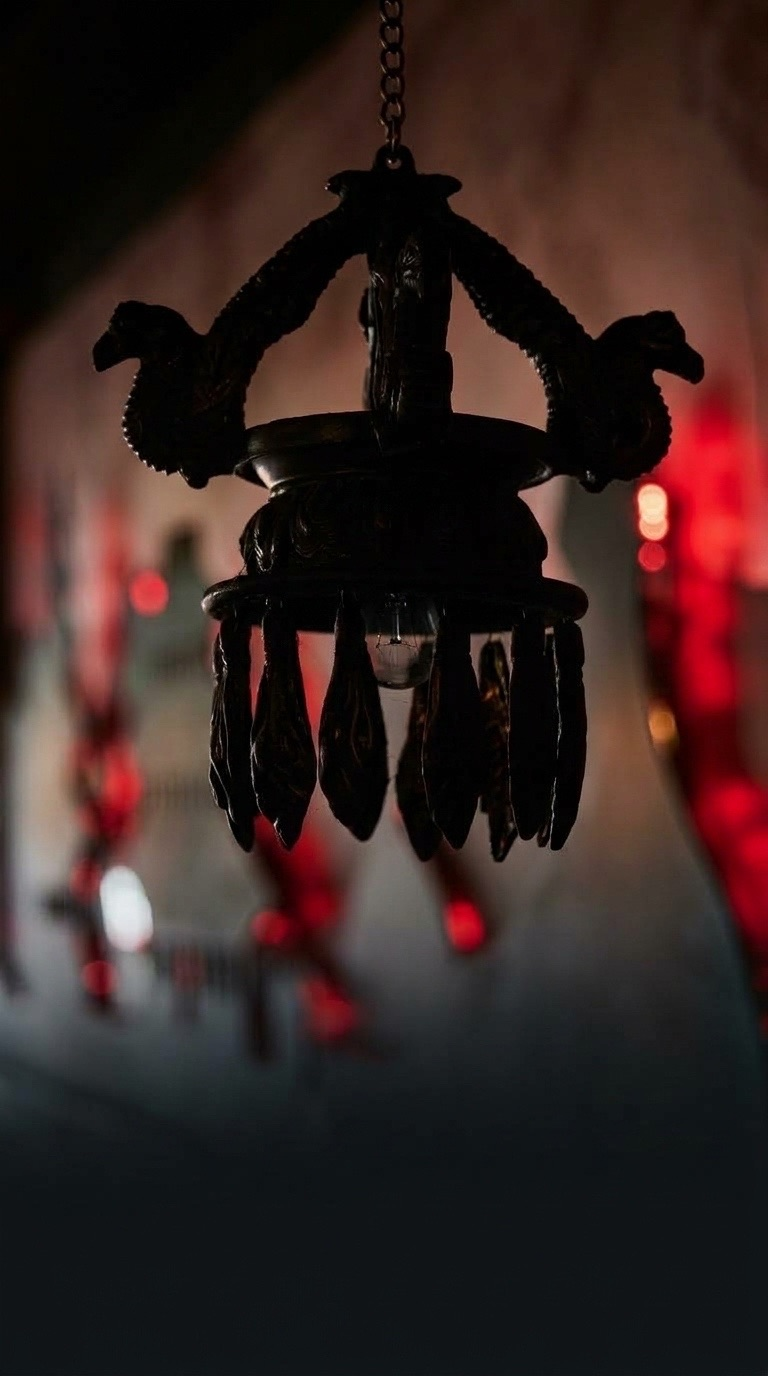
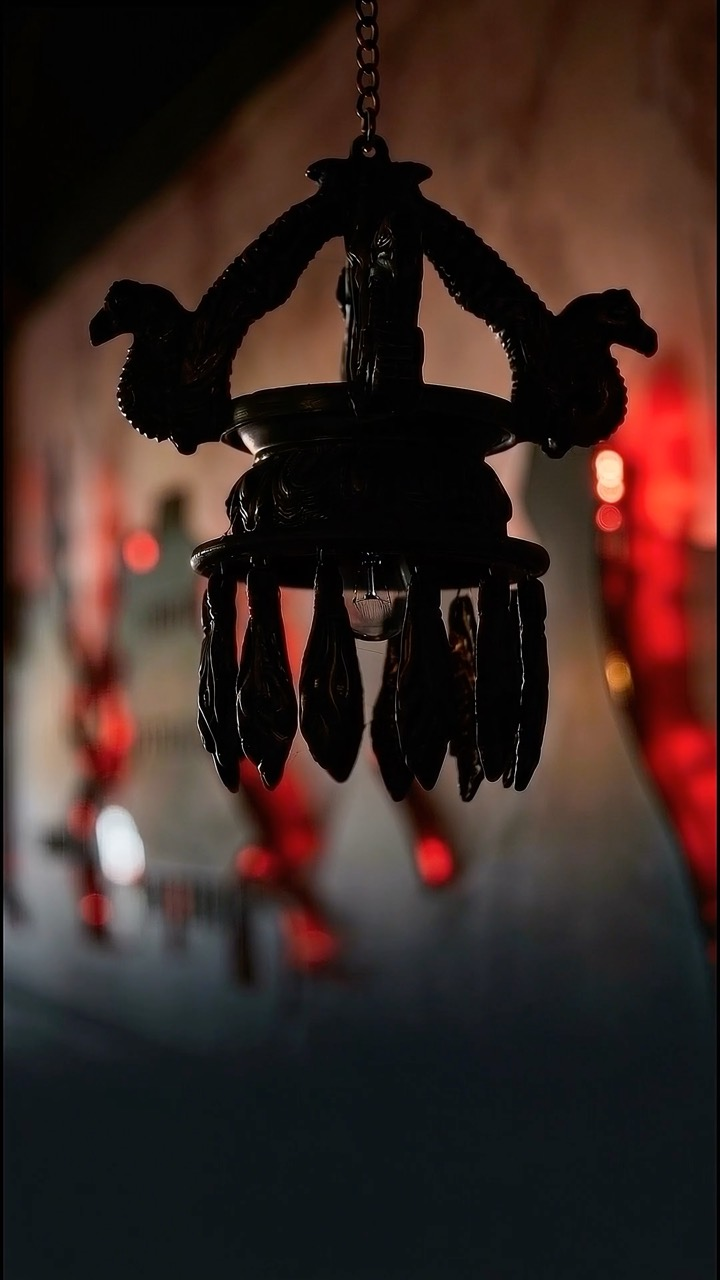
Lab bara: real lamp clip, 6 s wait, no dead scroll after auto-on (#28)
- The lamp now plays the real clip (bulb snaps on, flickers, holds)
  as 19 frames instead of fading between two stills.
- Comes on by itself after 6 s instead of 2.2 s, so a visitor who
  reads first still gets to scroll it on.
- When it comes on by itself, the hold is dropped so the next scroll
  moves the page instead of scrolling past an unchanging lamp.
- Link preview uses the fully lit frame.

diff --git a/lab/bara/index.html b/lab/bara/index.html
@@ -6,7 +6,7 @@
 <link rel="icon" type="image/svg+xml" href="/favicon.svg">
 <meta property="og:title" content="Bara Nepalese Restaurant &amp; Bar (redesign concept)">
 <meta property="og:description" content="Redesign concept for Bara Nepalese Restaurant &amp; Bar in Euless, TX. Not the official site.">
-<meta property="og:image" content="https://milankhanal.com/lab/bara/frames/lamp/f001.jpg">
+<meta property="og:image" content="https://milankhanal.com/lab/bara/frames/lamp/f018.jpg">
 <meta property="og:url" content="https://milankhanal.com/lab/bara">
 <meta name="robots" content="noindex, nofollow">
 <title>Bara Nepalese Restaurant & Bar | Euless, TX (redesign concept)</title>
@@ -337,7 +337,7 @@ a{color:inherit;text-decoration:none}
   <div class="lamp-track">
   <section class="hero lamp" aria-label="Bara">
     <div class="lamp-stage">
-      <img class="lamp-img" src="/lab/bara/frames/lamp/f000.jpg" alt="Bara's carved brass lamp with its ring of leaf-shaped pendants" width="768" height="1376">
+      <img class="lamp-img" src="/lab/bara/frames/lamp/f000.jpg" alt="Bara's carved brass lamp with its ring of leaf-shaped pendants" width="720" height="1280">
       <canvas class="lamp-cv" aria-hidden="true"></canvas>
     </div>
     <div class="hero-copy">
@@ -527,14 +527,14 @@ function isOpenNow(){try{var h=+new Intl.DateTimeFormat('en-US',{hour:'numeric',
 })();
 // The lamp. Frames cut from a clip made from Bara's own lamp photo: bulb off to on (the
 // filament warms, flickers, then full light). The first scroll warms it on while the hero holds
-// still; if the visitor lingers at the top without scrolling, it comes on by itself. The
+// still; if the visitor lingers at the top for 6 s without scrolling, it comes on by itself. The
 // headline says Open till 2 AM or Opens at 4 PM from the Dallas clock. Frames are decoded
 // before use and the canvas repaints only when the picture changes.
 (function(){
   var track=document.querySelector('.lamp-track'),stage=document.querySelector('.lamp-stage'),cv=document.querySelector('.lamp-cv'),hero=document.querySelector('.lamp');
   var title=document.getElementById('lamp-title');
   if(!track||!cv) return;
-  var N=2,FPS=1.4,ON=1; // ON: the frame where the light is fully up
+  var N=19,FPS=12,ON=18; // ON: the frame where the light is fully up
   var open=isOpenNow();
   title.innerHTML=open?'<span class="l1">Open till</span><span class="l2">2&thinsp;AM</span>':'<span class="l1">Opens at</span><span class="l2">4&thinsp;PM</span>';
   var frames=new Array(N),ctx=cv.getContext('2d'),dpr=1,w=0,h=0,dirty=true,shown=-1,pos=0,auto=0,autoT0=0,autoRun=false,scrolled=false;
@@ -569,8 +569,8 @@ function isOpenNow(){try{var h=+new Intl.DateTimeFormat('en-US',{hour:'numeric',
     requestAnimationFrame(tick)}
   ready.then(function(){
     requestAnimationFrame(tick);
-    // lingering at the top: the lamp comes on by itself
-    setTimeout(function(){if(!scrolled&&progress()<.02){autoRun=true;autoT0=performance.now()}},2200);
+    // lingering at the top: the lamp comes on by itself, and the hold is dropped so the next scroll moves the page
+    setTimeout(function(){if(!scrolled&&progress()<.02){autoRun=true;autoT0=performance.now();track.classList.add('static')}},6000);
   });
 })();
 // Reveal on scroll
